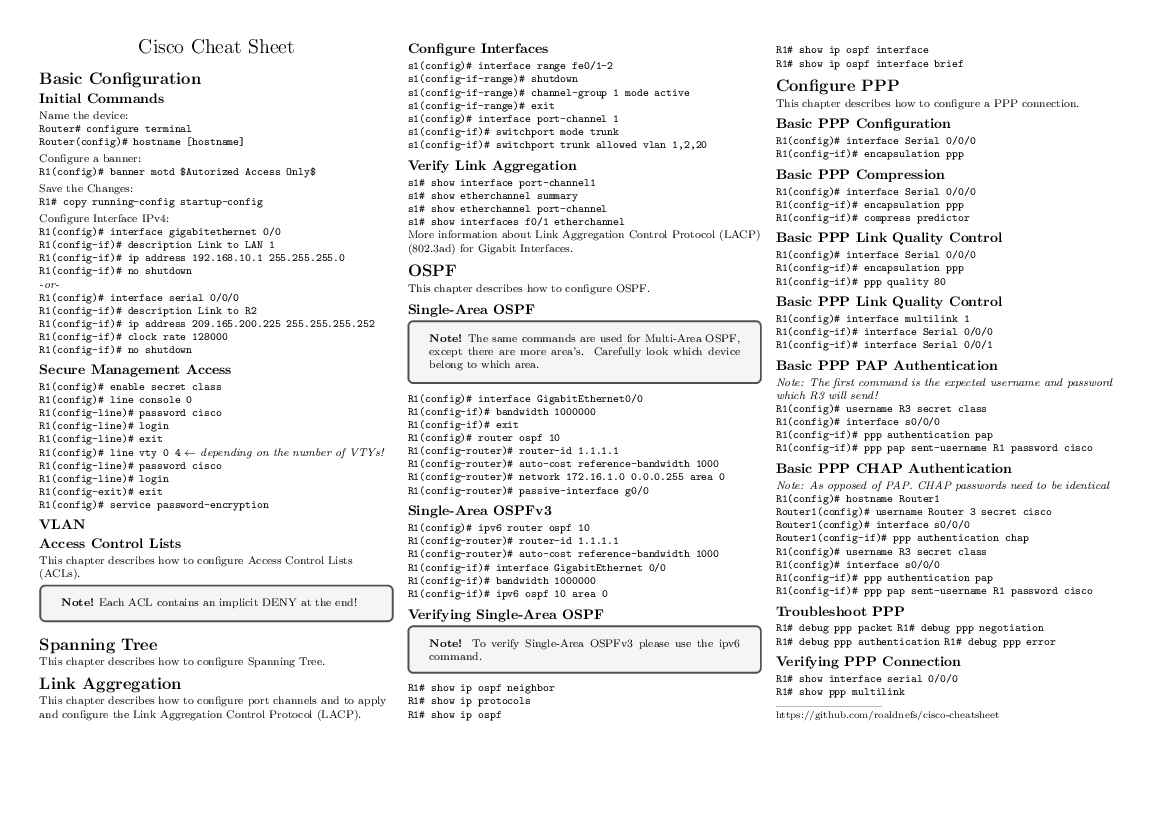
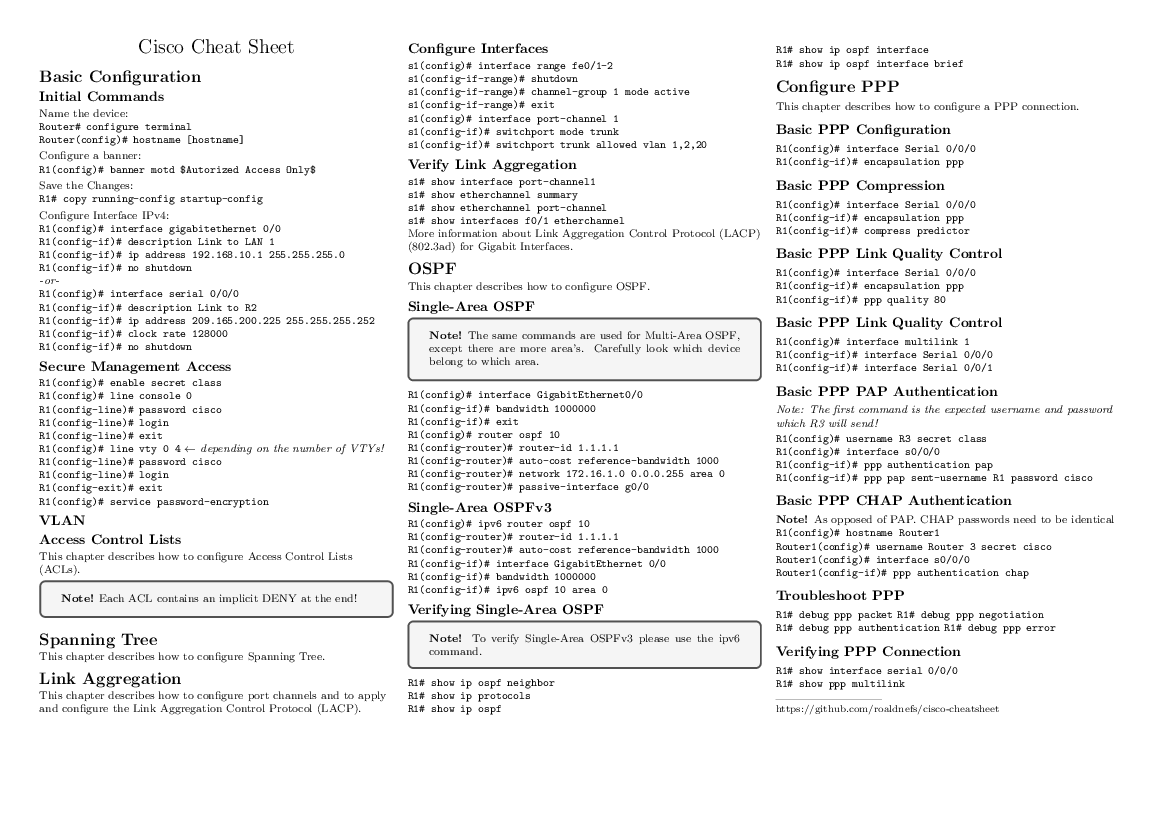
Fixed error in PPP Chap Authentication

Changed region(s): [[0.0308, 0.0907, 0.9547, 0.8767], [0.3695, 0.0907, 0.5851, 0.1511]]

diff --git a/cheatsheet.tex b/cheatsheet.tex
@@ -206,15 +206,11 @@ This chapter describes how to configure a PPP connection.
 \verb!R1(config-if)# ppp pap sent-username R1 password cisco!
 
 \subsection{Basic PPP CHAP Authentication}
-\textit{Note: As opposed of PAP. CHAP passwords need to be identical}
+\textbf{Note!} As opposed of PAP. CHAP passwords need to be identical
 \verb!R1(config)# hostname Router1!
 \verb!Router1(config)# username Router 3 secret cisco!
 \verb!Router1(config)# interface s0/0/0!
 \verb!Router1(config-if)# ppp authentication chap!
-\verb!R1(config)# username R3 secret class!
-\verb!R1(config)# interface s0/0/0!
-\verb!R1(config-if)# ppp authentication pap!
-\verb!R1(config-if)# ppp pap sent-username R1 password cisco!
 
 \subsection{Troubleshoot PPP}
 \verb!R1# debug ppp packet!
